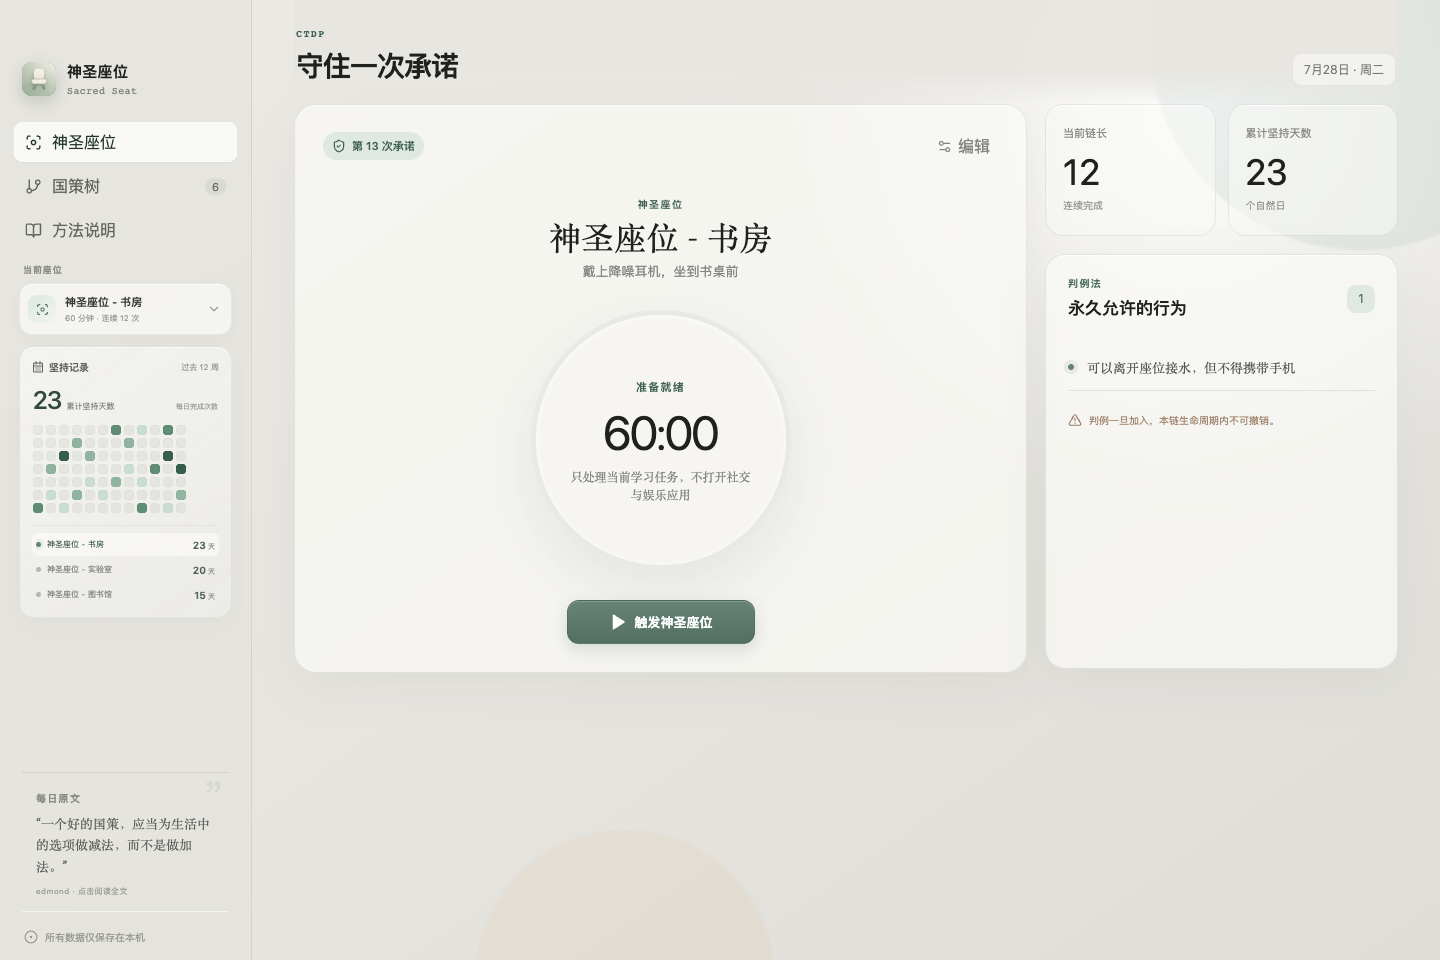
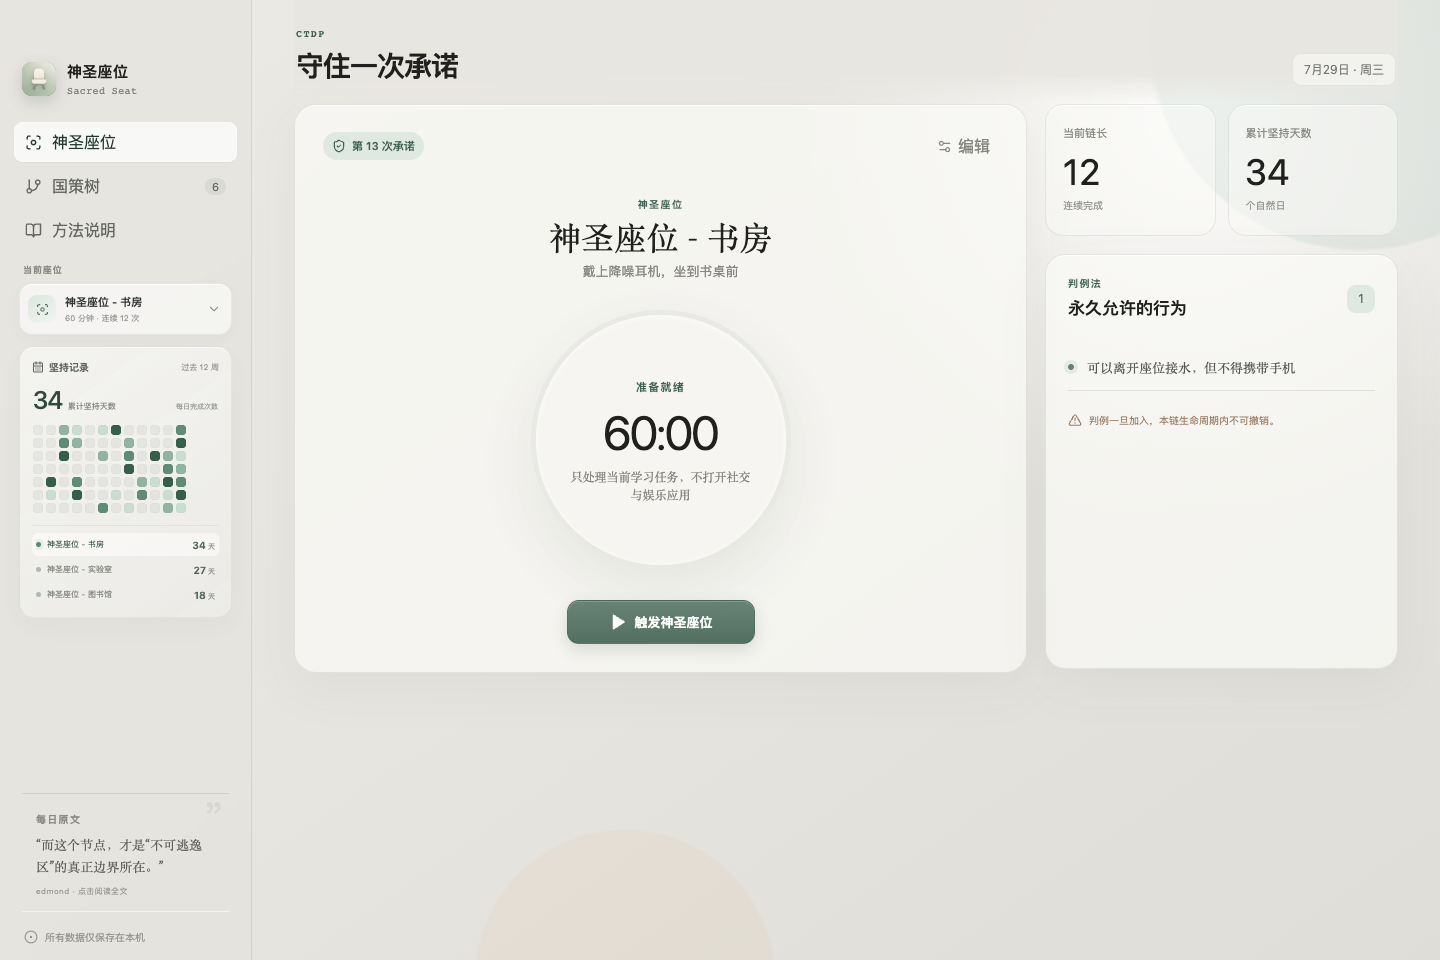
docs: align activity heatmap with current streak

Changed region(s): [[0.0312, 0.4062, 0.125, 0.5312], [0.0312, 0.8125, 0.1562, 0.9062], [0.875, 0.1562, 0.9062, 0.1875]]

diff --git a/src/App.tsx b/src/App.tsx
@@ -77,6 +77,11 @@ function localDateKey(date = new Date()): string {
   return `${year}-${month}-${day}`;
 }
 
+function formatHeaderDate(date = new Date()): string {
+  const weekdays = ["日", "一", "二", "三", "四", "五", "六"];
+  return `${date.getMonth() + 1}月${date.getDate()}日 · 周${weekdays[date.getDay()]}`;
+}
+
 function recordCompletedSeat(seat: SacredSeat): SacredSeat {
   const today = localDateKey();
   const completionLog = seat.completionLog ?? {};
@@ -298,7 +303,7 @@ function App() {
             <h1>{view === "focus" ? "守住一次承诺" : "改变长期稳态"}</h1>
           </div>
           <div className="titlebar-actions">
-            <span className="date-chip">7月28日 · 周二</span>
+            <span className="date-chip">{formatHeaderDate()}</span>
           </div>
         </header>
 
